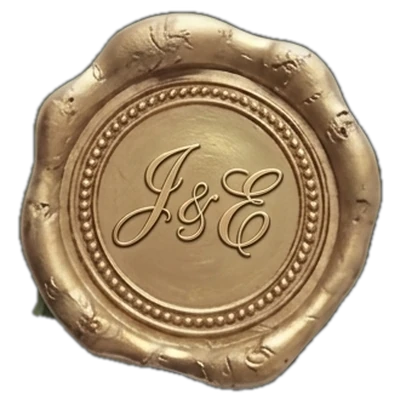
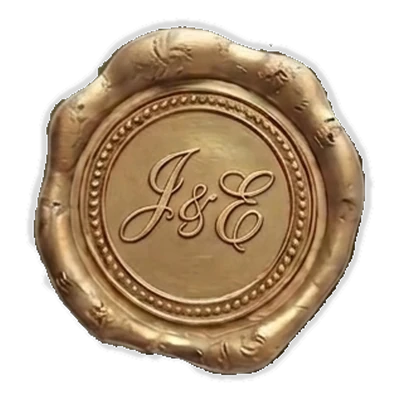
Rebuild cover flaps and seal from v2 reference photo.
Extract gold-only wax seal and continuous sage flap texture from
portada-referencia-sobre-v2, centered for clip-path seams, with CSS
hint only and no baked text.

diff --git a/src/app/globals.css b/src/app/globals.css
@@ -297,8 +297,8 @@
   transform: translate3d(-50%, -50%, 48px);
   transform-style: flat;
   -webkit-transform-style: flat;
-  filter: drop-shadow(0 14px 22px rgba(30, 22, 8, 0.45))
-    drop-shadow(0 3px 6px rgba(70, 50, 15, 0.3));
+  filter: drop-shadow(0 10px 18px rgba(30, 22, 8, 0.42))
+    drop-shadow(0 2px 4px rgba(70, 50, 15, 0.28));
   pointer-events: none;
   isolation: isolate;
 }
